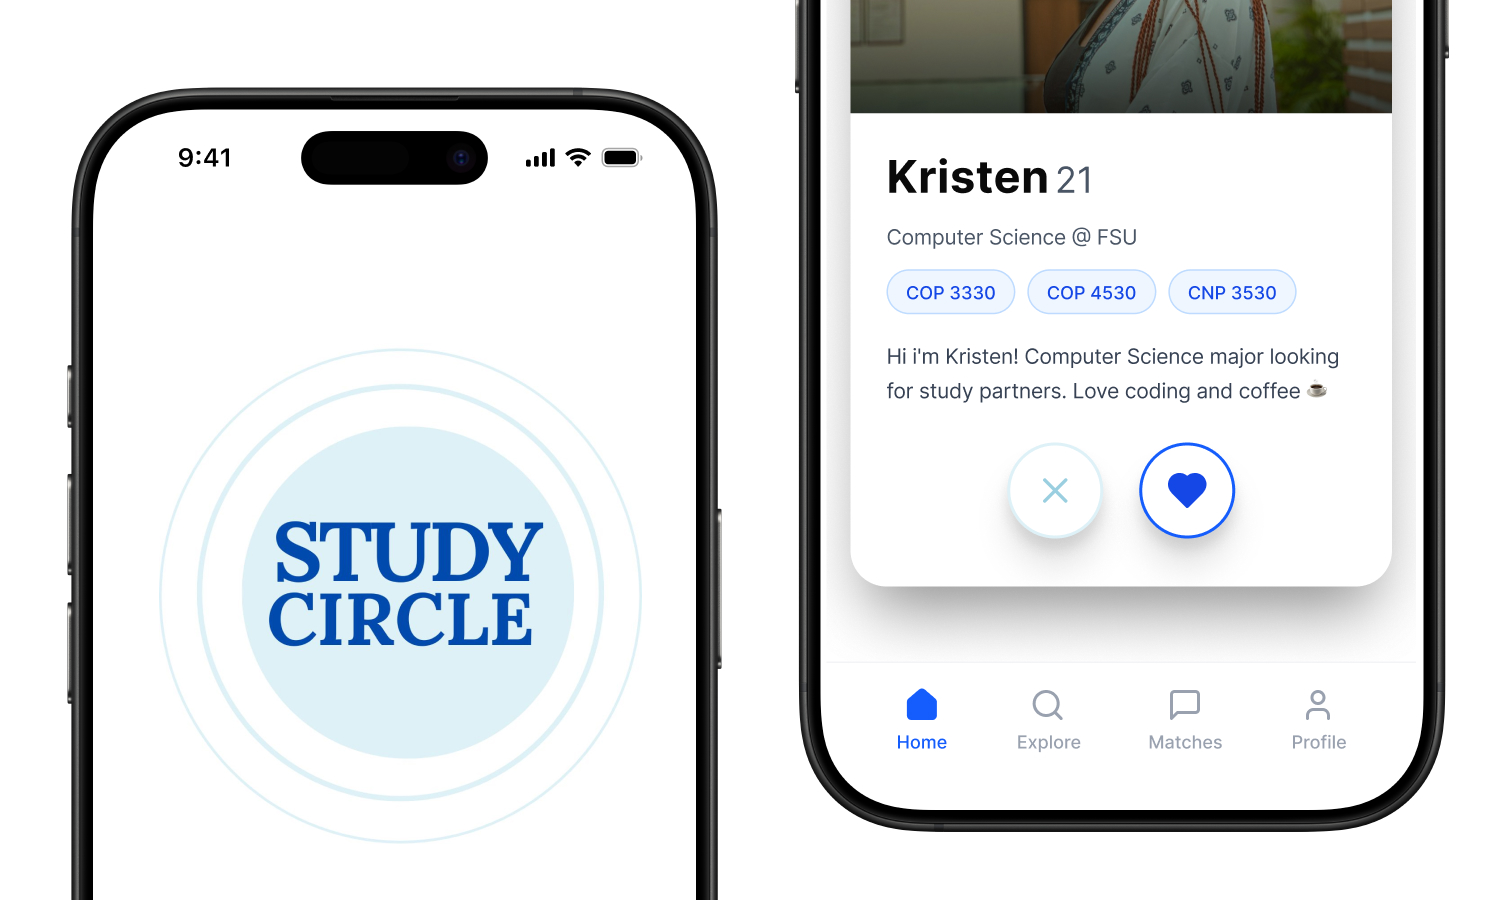
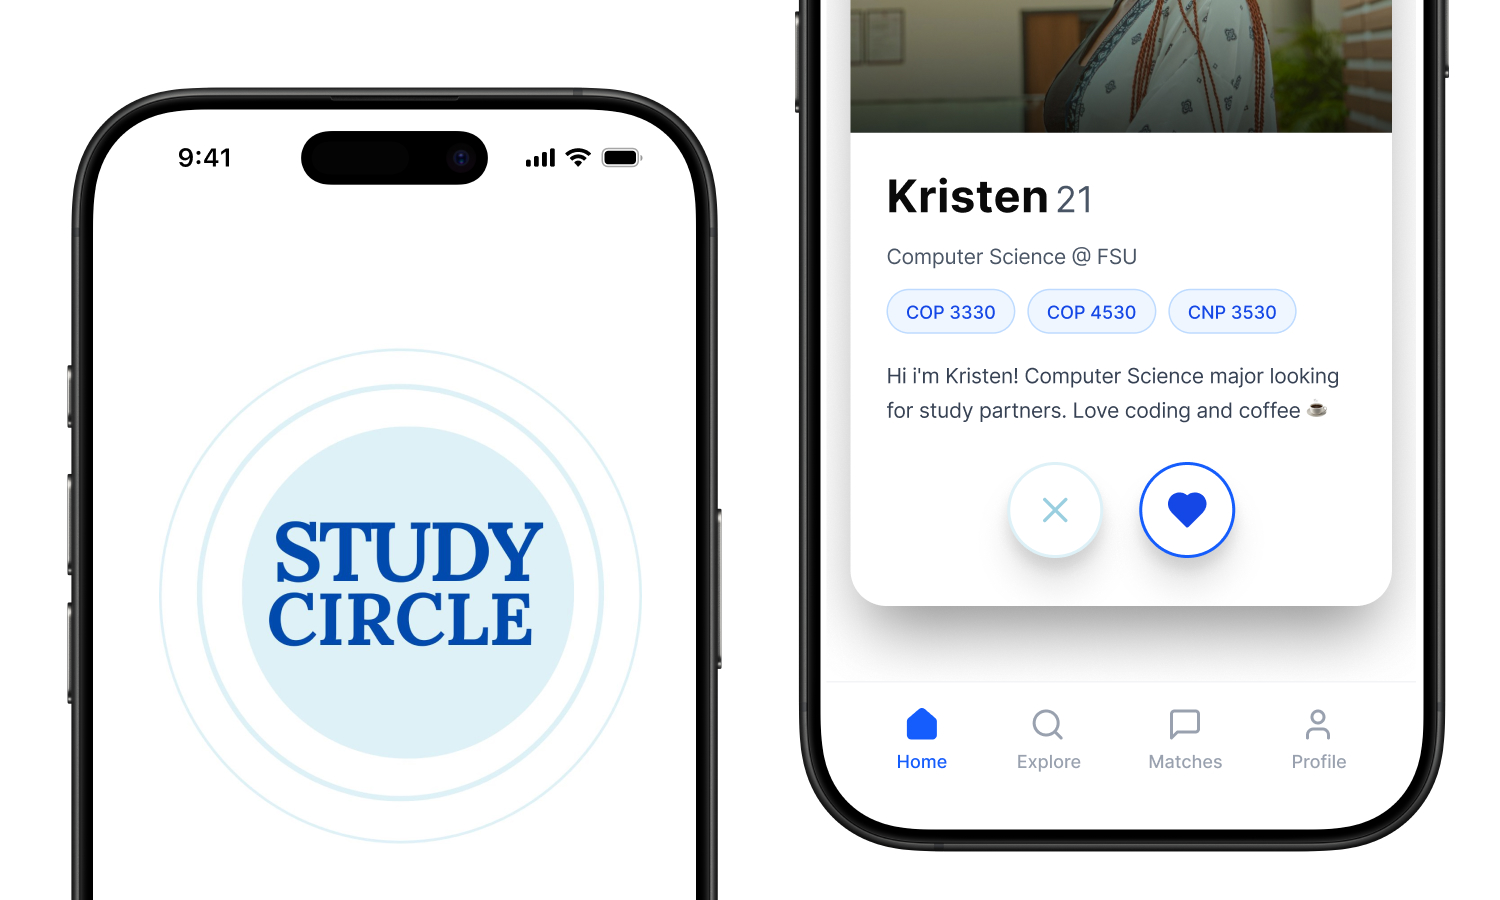
case study refresh

diff --git a/script.js b/script.js
@@ -227,7 +227,7 @@ document.addEventListener("DOMContentLoaded", function () {
         <div class="case-study-section">
           <h1>Case Study Not Found</h1>
           <p>The case study for "${projectId}" could not be found.</p>
-          <a href="work.html" class="btn btn-primary">Back to Projects</a>
+          <a href="work.html" class="btn btn-primary">Back to Work</a>
         </div>
       `;
       return;
@@ -241,7 +241,7 @@ document.addEventListener("DOMContentLoaded", function () {
         <div class="case-study-section">
           <h1>Case Study Not Found</h1>
           <p>The case study for "${projectId}" could not be found.</p>
-          <a href="work.html" class="btn btn-primary">Back to Projects</a>
+          <a href="work.html" class="btn btn-primary">Back to Work</a>
         </div>
       `;
       return;
@@ -335,7 +335,7 @@ document.addEventListener("DOMContentLoaded", function () {
                 <h2>Ideation</h2>
                 <p>${caseStudy.ideation}</p>
                 <div class="case-study-image">
-                    <img src="assets/img/${projectId}-wireframes.jpg" alt="${
+                    <img src="assets/img/${projectId}-wireframes.png" alt="${
         caseStudy.title
       } wireframes">
                 </div>
@@ -407,7 +407,7 @@ document.addEventListener("DOMContentLoaded", function () {
         <div class="case-study-section">
           <h1>Error Loading Case Study</h1>
           <p>There was an error loading the case study. Please try again.</p>
-          <a href="work.html" class="btn btn-primary">Back to Projects</a>
+          <a href="work.html" class="btn btn-primary">Back to Work</a>
         </div>
       `;
     }

diff --git a/case-study.html b/case-study.html
@@ -12,7 +12,7 @@
         <a href="index.html" class="nav-logo">Kayla Heady</a>
         <div class="nav-links">
           <a href="about.html">About</a>
-          <a href="work.html">Projects</a>
+          <a href="work.html">Work</a>
           <a href="contact.html">Contact</a>
         </div>
       </div>
@@ -21,7 +21,7 @@
     <main>
       <section class="case-study">
         <div class="container">
-          <a href="work.html" class="back-link">← Back to Projects</a>
+          <a href="work.html" class="back-link">← Back to Work</a>
 
           <div id="case-study-content">
             <!-- Content will be dynamically inserted by script.js -->

diff --git a/work.html b/work.html
@@ -13,7 +13,7 @@
         <a href="index.html" class="nav-logo">Kayla Heady</a>
         <div class="nav-links">
           <a href="about.html">About</a>
-          <a href="work.html" class="active">Projects</a>
+          <a href="work.html" class="active">Work</a>
           <a href="contact.html">Contact</a>
         </div>
       </div>

diff --git a/about.html b/about.html
@@ -13,7 +13,7 @@
         <a href="index.html" class="nav-logo">Kayla Heady</a>
         <div class="nav-links">
           <a href="about.html" class="active">About</a>
-          <a href="work.html">Projects</a>
+          <a href="work.html">Work</a>
           <a href="contact.html">Contact</a>
         </div>
       </div>

diff --git a/contact.html b/contact.html
@@ -13,7 +13,7 @@
         <a href="index.html" class="nav-logo">Kayla Heady</a>
         <div class="nav-links">
           <a href="about.html">About</a>
-          <a href="work.html">Projects</a>
+          <a href="work.html">Work</a>
           <a href="contact.html" class="active">Contact</a>
         </div>
       </div>

diff --git a/index.html b/index.html
@@ -19,7 +19,7 @@
         <a href="index.html" class="nav-logo">Kayla Heady</a>
         <div class="nav-links">
           <a href="about.html">About</a>
-          <a href="work.html">Projects</a>
+          <a href="work.html">Work</a>
           <a href="contact.html">Contact</a>
         </div>
       </div>
